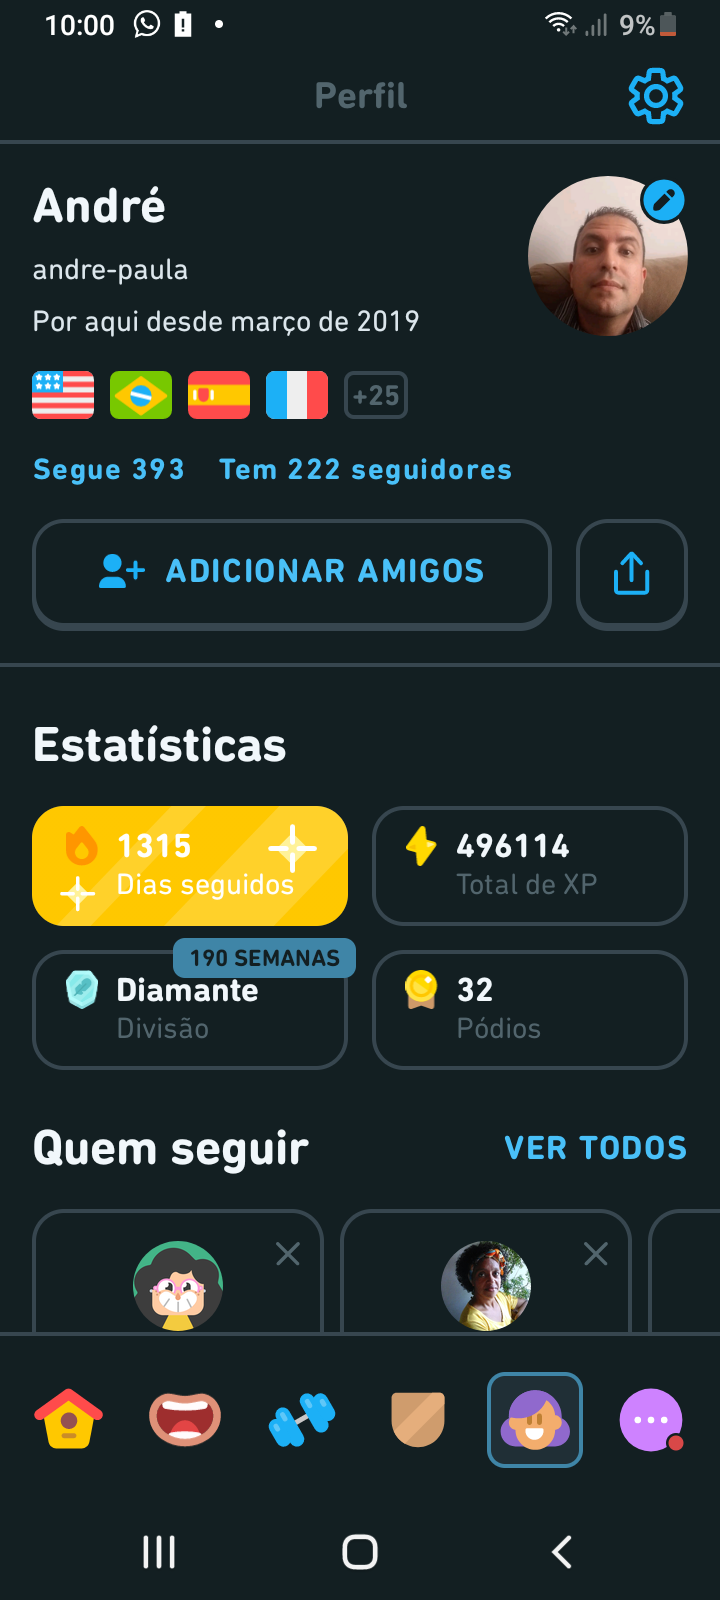
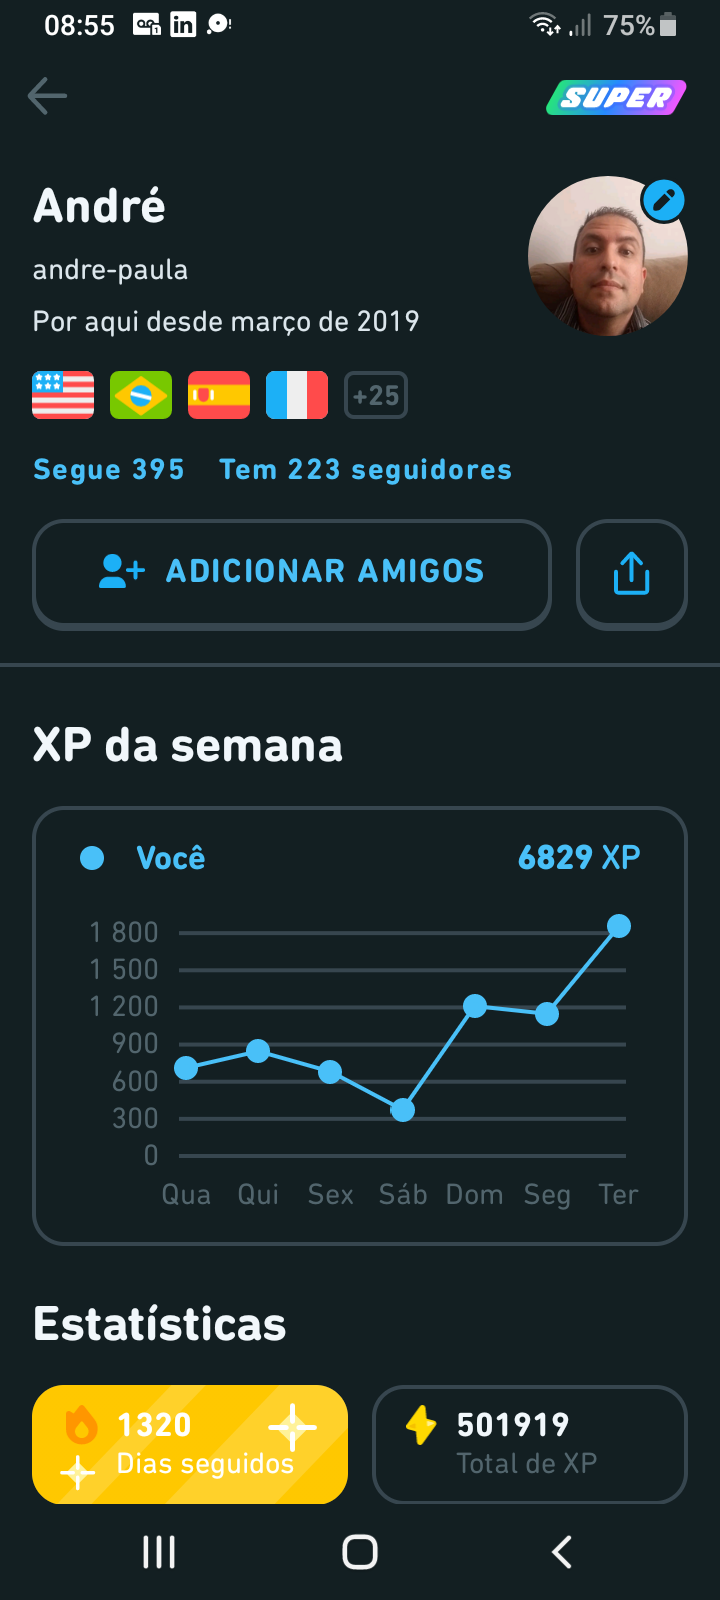
Updating images and the text related to Duolingo

diff --git a/index.htm b/index.htm
@@ -23,7 +23,7 @@
 				<li>Estive com todos os selos dourados, ou seja, já tinha atingido todas as metas propostas pelo Duolingo. Mas o jogo acrescentou depois mais lições;</li>
 				<li>Ganhei a divisão diamante algumas vezes, mas sinceramente esforço-me apenas para não ser rebaixado da divisão diamante. Ficar com neura de ranking não é estudar, eu poderia estudar 1.000 vezes a mesma lição, no story, ganhar a divisão diamante e não aprender nada;</li>
 				<li>Estou com uma ofensiva de mais de 1315 dias;</li>
-				<li>Já passei de 496.000 XP, sendo mais de 306.000 XP de inglês com base em português;</li>
+				<li>Já passei de 500.000 XP, sendo mais de 310.000 XP de inglês com base em português;</li>
 				<li>Peço desculpas pelo último vídeo estar cortado, sem o final. Futuramente gravarei outro;</li>
 				<li>Já estou há 190 semanas na divisão diamente;</li>
 				<li>Estou fazendo minhas mensagens de commit em inglês, como por exemplo pode ser visto <b>por exemplo</b> em <a href="https://github.com/andreterceiro/terceiro.com.br/commits/master" target="_blank">https://github.com/andreterceiro/terceiro.com.br/commits/master</a>;</li>
